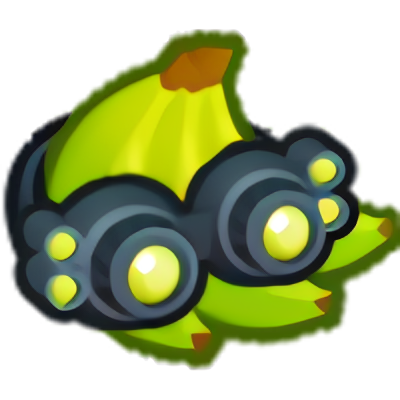
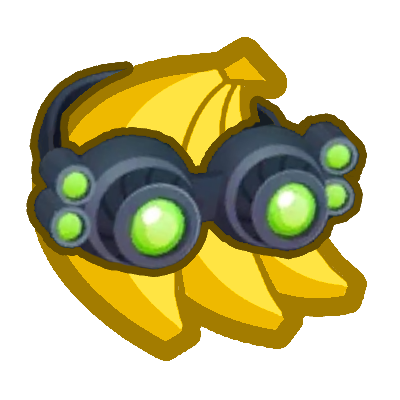
Banana Farmer 2.0

diff --git a/BananaFarmerMod/BananaFarmer/Upgrades/MiddlePathUpgrades.cs b/BananaFarmerMod/BananaFarmer/Upgrades/MiddlePathUpgrades.cs
@@ -39,7 +39,7 @@ namespace VoidNull.BananaFarmer.Upgrades
                 BananaGun.AddBehavior(new RotateToTargetModel("RotateToTargetModel_", true, true, true, 0, true, true));
                 GunWeaponModel.fireWithoutTarget = false;
                 projectileModel.RemoveBehavior<DamageModel>();
-                projectileModel.AddBehavior(new WindModel("WindModel_", 0, 200, 100, false, null, 0));
+                projectileModel.AddBehavior(new WindModel("WindModel_", 0, 200, 100, false, null, 0,null,1));
                 projectileModel.RemoveBehavior<SetSpriteFromPierceModel>();
                 projectileModel.pierce = 1;
                 projectileModel.GetBehavior<ArriveAtTargetModel>().timeToTake = .45f;
@@ -95,7 +95,7 @@ namespace VoidNull.BananaFarmer.Upgrades
             public override string Name => "PotassiumSpeed";
             public override string DisplayName => "Potassium Speed";
             public override int Cost => 5000;
-            public override string Description => "Doubles banana fire speed again.";
+            public override string Description => "Doubles banana fire speed and makes Bloons travel backwards 2/3 as fast.";
             public override string Icon => "BananaSight-Icon";
             public override string Portrait => "RedHat-Portrait";
             public override void ApplyUpgrade(TowerModel towerModel)
@@ -103,7 +103,7 @@ namespace VoidNull.BananaFarmer.Upgrades
                 towerModel.ApplyDisplay<TowerDisplays.BananaGunDisplay>();
                 towerModel.GetAttackModel().weapons[0].rate = 1.75f / 4f;
                 towerModel.GetAttackModel().weapons[0].projectile.GetBehavior<ArriveAtTargetModel>().timeToTake = .15f;
-
+                towerModel.GetAttackModel().weapons[0].projectile.GetBehavior<WindModel>().speedMultiplier = 0.75f;
             }
         }
         public class Tier5 : ModUpgrade<BananaFarmer>

diff --git a/BananaFarmerMod/MainMod.cs b/BananaFarmerMod/MainMod.cs
@@ -14,7 +14,7 @@ Kosmic#4494 on Discord for some great sprite work,
 BTD6 Mods & Discussion discord for great and efficient problem solving and debugging (https://discord.gg/dV682SPepR)
 */
 
-[assembly: MelonInfo(typeof(MainMod), "Agent Towers", "1.0.0", "Void & Null")]
+[assembly: MelonInfo(typeof(MainMod), "Banana Farmer Tower", "2.0.0", "Void & Null")]
 [assembly: MelonGame("Ninja Kiwi", "BloonsTD6")]
 [assembly: MelonColor(ConsoleColor.DarkBlue)]
 namespace VoidNull

diff --git a/BananaFarmerMod/BananaFarmer/BananaFarmer.cs b/BananaFarmerMod/BananaFarmer/BananaFarmer.cs
@@ -1,5 +1,5 @@
 #region imports
-
+using System;
 using Assets.Scripts.Models.GenericBehaviors;
 using Assets.Scripts.Models.Towers;
 using Assets.Scripts.Models.Towers.Behaviors;
